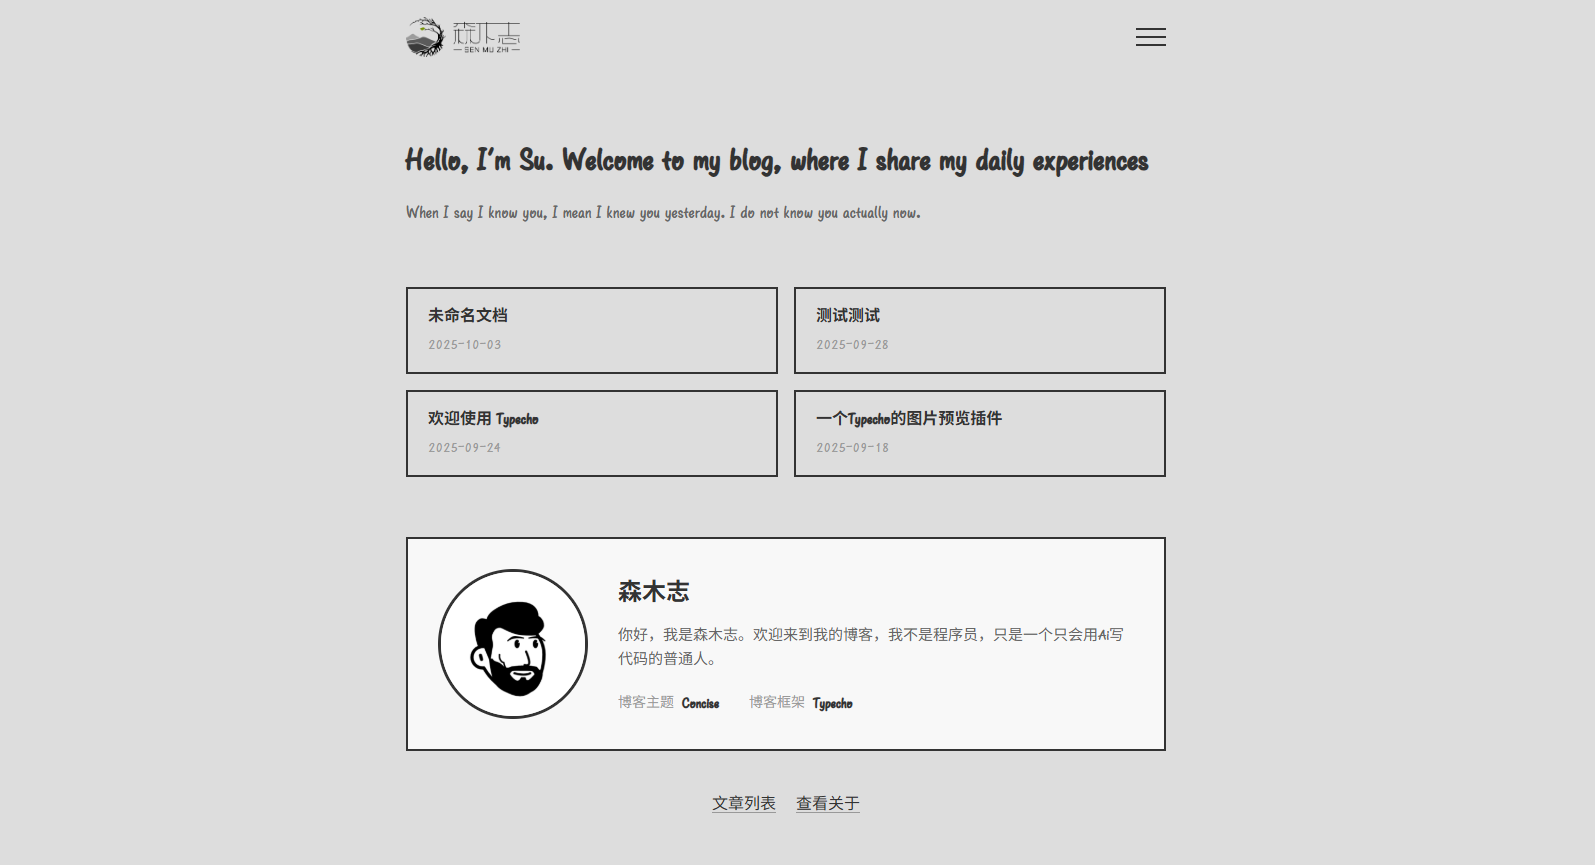
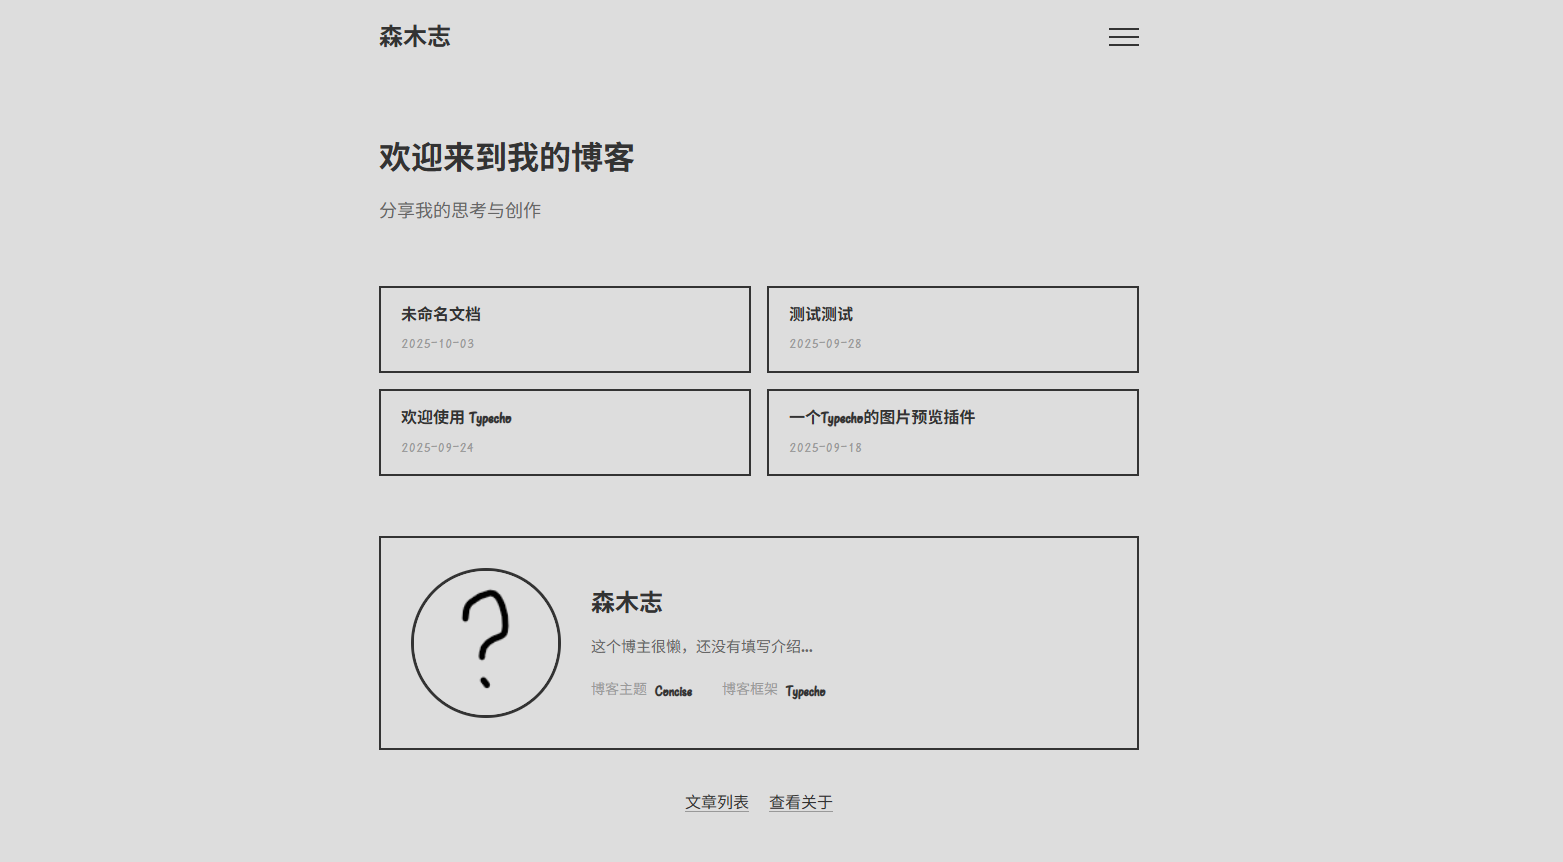
1

diff --git a/links.php b/links.php
@@ -1,4 +1,9 @@
 <?php
+/**
+ * 友情链接
+ *
+ * @package custom
+ */
 if (!defined('__TYPECHO_ROOT_DIR__')) exit;
 ?>
 <?php $this->need('header.php'); ?>

diff --git a/blog.php b/blog.php
@@ -1,4 +1,9 @@
 <?php
+/**
+ * Home Page
+ *
+ * @package custom
+ */
 if (!defined('__TYPECHO_ROOT_DIR__')) exit;
 ?>
 <?php $this->need('header.php'); ?>

diff --git a/README.md b/README.md
@@ -2,9 +2,12 @@
 一个简单的Typecho主题
 
 使用教程
-先下载主题压缩包解压重命名为`Concise`
-上传到Typecho网站的`usr/themes/`目录下
-后台“外观”菜单中找到并激活该主题
-在“外观”->“编辑当前主题”中进行个性化设置
++ 先下载主题压缩包解压重命名为`Concise`
++ 上传到Typecho网站的`usr/themes/`目录下
++ 后台“外观”菜单中找到并激活该主题
++ 在“外观”->“编辑当前主题”中进行个性化设置
 
-![预览](https://github.com/SurGarfield/Typecho-Theme-Garfield/blob/main/screenshot.png)
++ 新建一个独立页面Home，然后选择Home Page模板
++ 在设置->阅读->使用 Home 页面作为首页
++ 勾选同时将文章列表页路径更改为 /blog/
+![预览](https://github.com/SurGarfield/Typecho-Theme-Concise/blob/main/screenshot.png)
